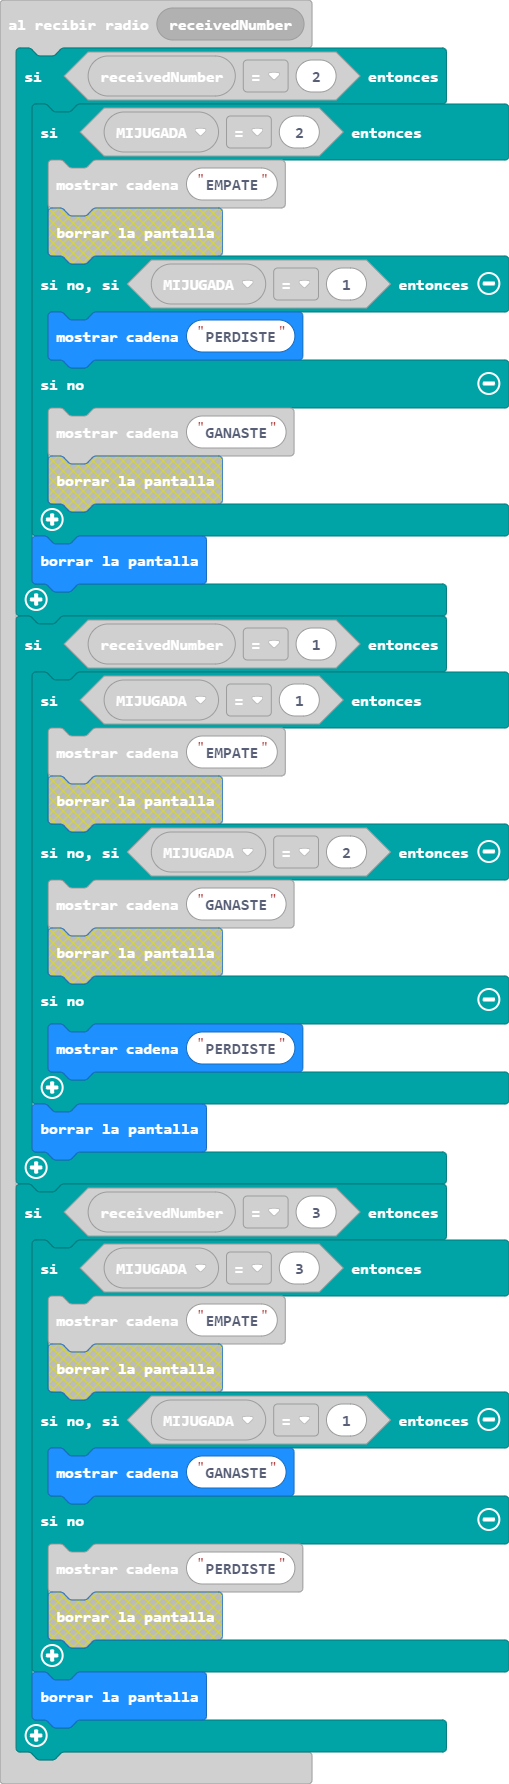
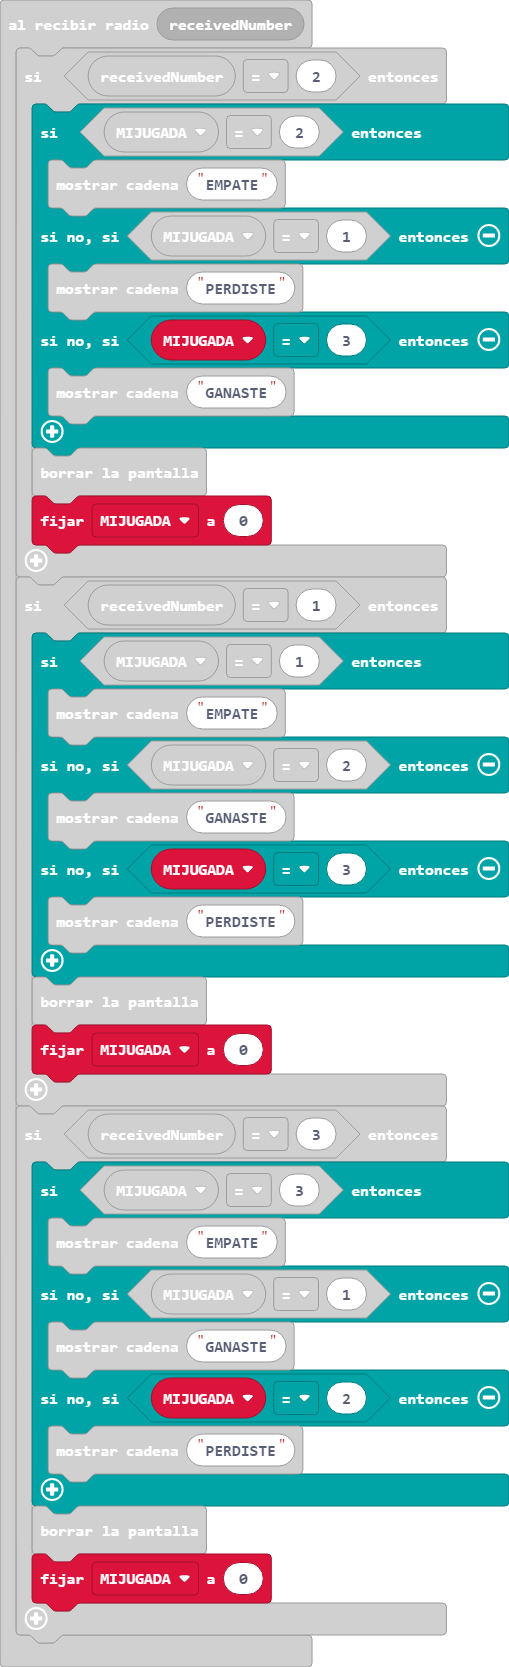
Actualizar main.blocks, main.ts

diff --git a/main.ts b/main.ts
@@ -4,30 +4,33 @@ radio.onReceivedNumber(function (receivedNumber) {
             basic.showString("EMPATE")
         } else if (MIJUGADA == 1) {
             basic.showString("PERDISTE")
-        } else {
+        } else if (MIJUGADA == 3) {
             basic.showString("GANASTE")
         }
         basic.clearScreen()
+        MIJUGADA = 0
     }
     if (receivedNumber == 1) {
         if (MIJUGADA == 1) {
             basic.showString("EMPATE")
         } else if (MIJUGADA == 2) {
             basic.showString("GANASTE")
-        } else {
+        } else if (MIJUGADA == 3) {
             basic.showString("PERDISTE")
         }
         basic.clearScreen()
+        MIJUGADA = 0
     }
     if (receivedNumber == 3) {
         if (MIJUGADA == 3) {
             basic.showString("EMPATE")
         } else if (MIJUGADA == 1) {
             basic.showString("GANASTE")
-        } else {
+        } else if (MIJUGADA == 2) {
             basic.showString("PERDISTE")
         }
         basic.clearScreen()
+        MIJUGADA = 0
     }
 })
 input.onButtonPressed(Button.A, function () {
